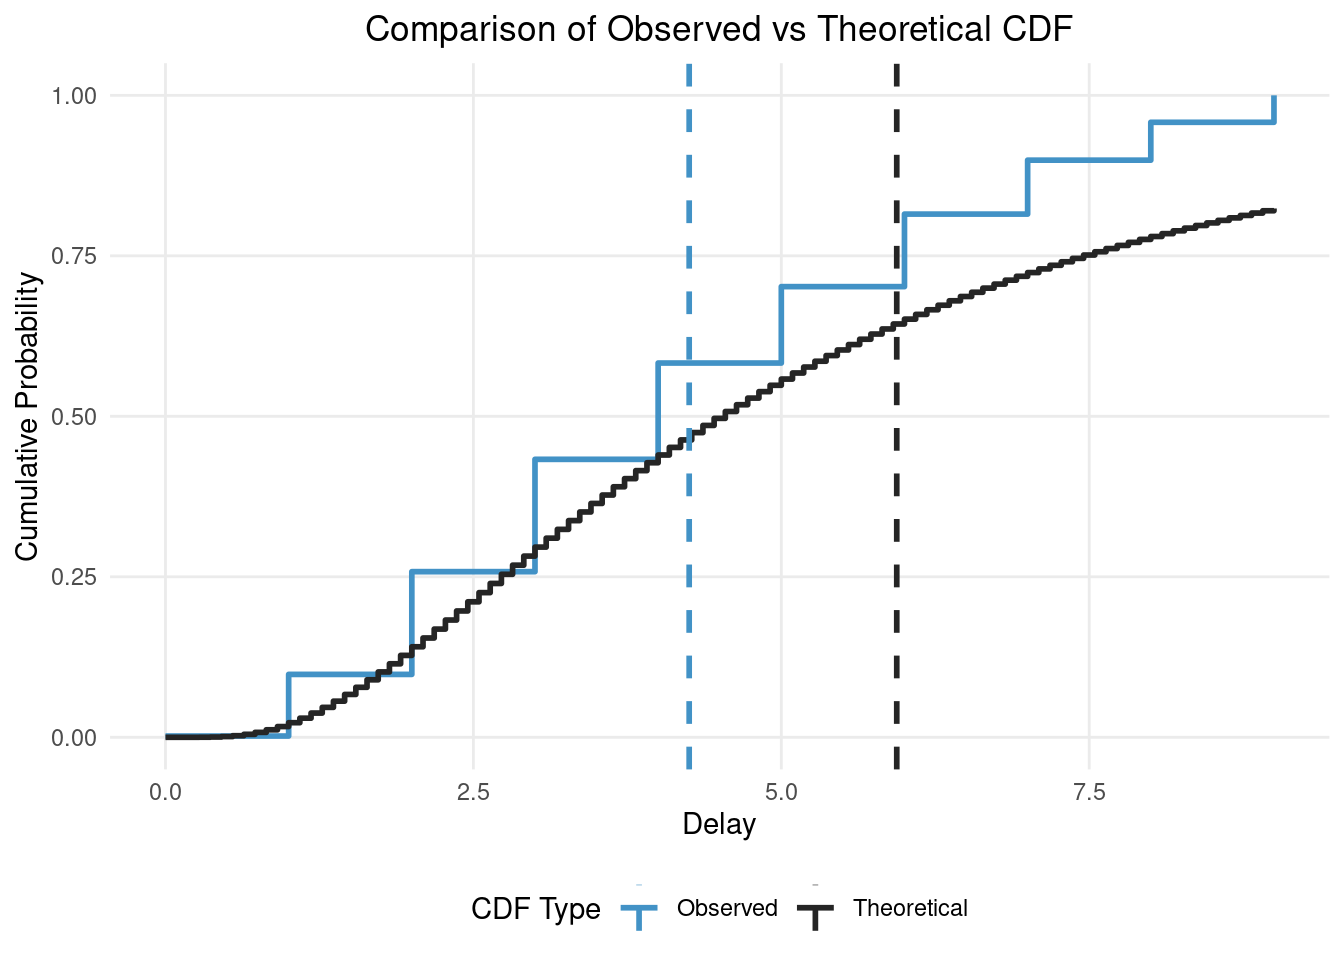
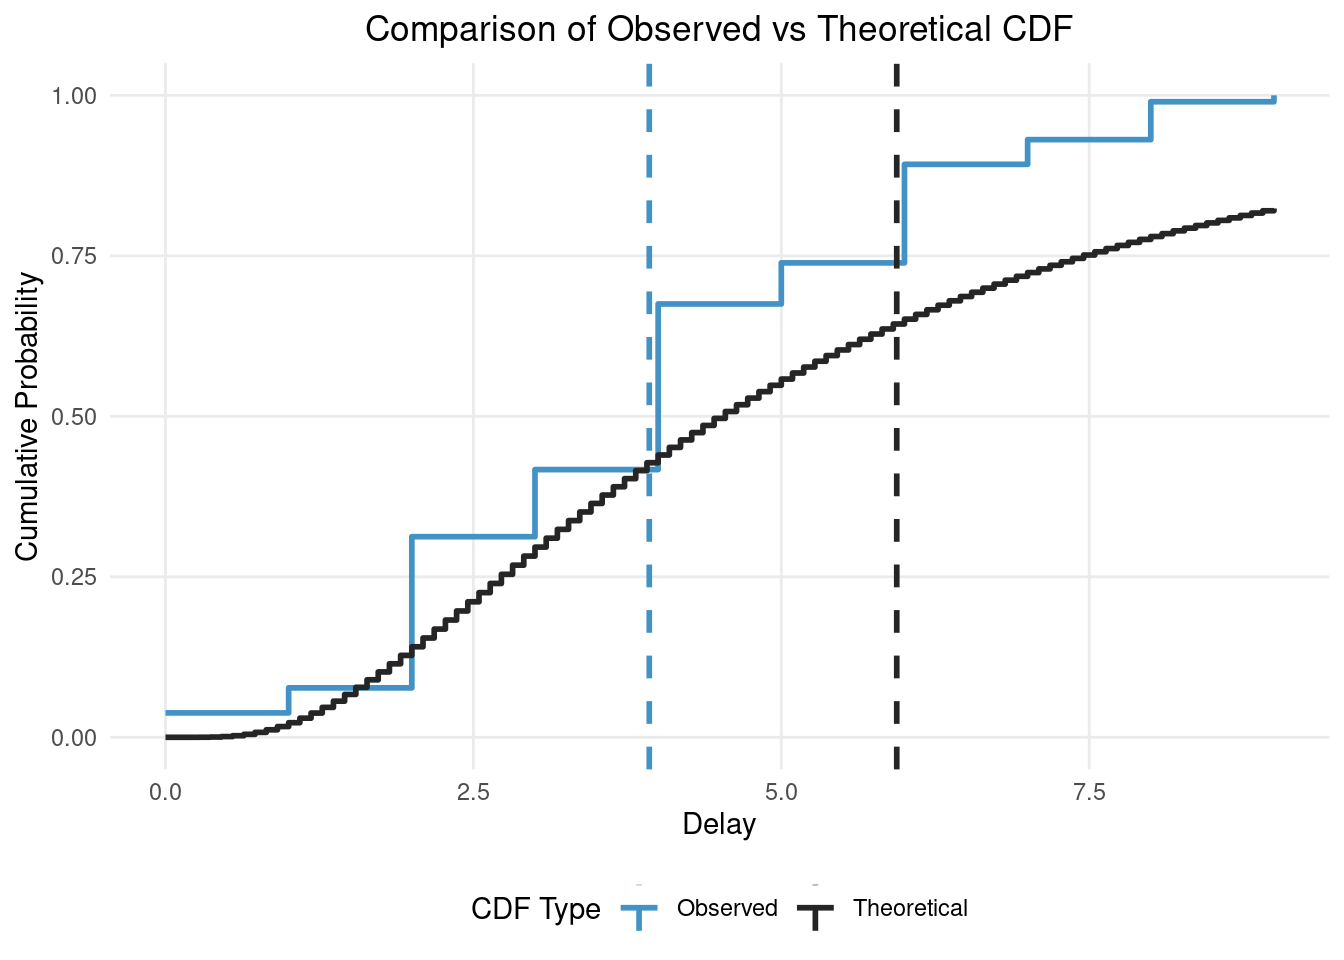
Deploying to gh-pages from @ epinowcast/primarycensoreddist@1c4e6f120c49ee372998851951ee8f03314c4535 🚀

diff --git a/dev/articles/fitting-dists-with-stan.html b/dev/articles/fitting-dists-with-stan.html
@@ -125,14 +125,14 @@
 <code class="sourceCode R"><span><span class="fu"><a href="https://rdrr.io/r/base/Random.html" class="external-link">set.seed</a></span><span class="op">(</span><span class="fl">123</span><span class="op">)</span> <span class="co"># For reproducibility</span></span>
 <span></span>
 <span><span class="co"># Define the true distribution parameters</span></span>
-<span><span class="va">n</span> <span class="op">&lt;-</span> <span class="fl">1000</span></span>
+<span><span class="va">n</span> <span class="op">&lt;-</span> <span class="fl">2000</span></span>
 <span><span class="va">meanlog</span> <span class="op">&lt;-</span> <span class="fl">1.5</span></span>
 <span><span class="va">sdlog</span> <span class="op">&lt;-</span> <span class="fl">0.75</span></span>
 <span></span>
 <span><span class="co"># Generate varying pwindow, swindow, and obs_time lengths</span></span>
-<span><span class="va">pwindows</span> <span class="op">&lt;-</span> <span class="fu"><a href="https://rdrr.io/r/base/sample.html" class="external-link">sample</a></span><span class="op">(</span><span class="fl">1</span>, <span class="va">n</span>, replace <span class="op">=</span> <span class="cn">TRUE</span><span class="op">)</span></span>
-<span><span class="va">swindows</span> <span class="op">&lt;-</span> <span class="fu"><a href="https://rdrr.io/r/base/sample.html" class="external-link">sample</a></span><span class="op">(</span><span class="fl">1</span>, <span class="va">n</span>, replace <span class="op">=</span> <span class="cn">TRUE</span><span class="op">)</span></span>
-<span><span class="va">obs_times</span> <span class="op">&lt;-</span> <span class="fl">10</span></span>
+<span><span class="va">pwindows</span> <span class="op">&lt;-</span> <span class="fu"><a href="https://rdrr.io/r/base/sample.html" class="external-link">sample</a></span><span class="op">(</span><span class="fl">1</span><span class="op">:</span><span class="fl">2</span>, <span class="va">n</span>, replace <span class="op">=</span> <span class="cn">TRUE</span><span class="op">)</span></span>
+<span><span class="va">swindows</span> <span class="op">&lt;-</span> <span class="fu"><a href="https://rdrr.io/r/base/sample.html" class="external-link">sample</a></span><span class="op">(</span><span class="fl">1</span><span class="op">:</span><span class="fl">2</span>, <span class="va">n</span>, replace <span class="op">=</span> <span class="cn">TRUE</span><span class="op">)</span></span>
+<span><span class="va">obs_times</span> <span class="op">&lt;-</span> <span class="fu"><a href="https://rdrr.io/r/base/sample.html" class="external-link">sample</a></span><span class="op">(</span><span class="fl">8</span><span class="op">:</span><span class="fl">10</span>, <span class="va">n</span>, replace <span class="op">=</span> <span class="cn">TRUE</span><span class="op">)</span></span>
 <span></span>
 <span><span class="co"># Function to generate a single sample</span></span>
 <span><span class="va">generate_sample</span> <span class="op">&lt;-</span> <span class="kw">function</span><span class="op">(</span><span class="va">pwindow</span>, <span class="va">swindow</span>, <span class="va">obs_time</span><span class="op">)</span> <span class="op">{</span></span>
@@ -149,37 +149,39 @@
 <span><span class="co"># Create initial data frame</span></span>
 <span><span class="va">delay_data</span> <span class="op">&lt;-</span> <span class="fu"><a href="https://rdrr.io/r/base/data.frame.html" class="external-link">data.frame</a></span><span class="op">(</span></span>
 <span>  pwindow <span class="op">=</span> <span class="va">pwindows</span>,</span>
-<span>  swindow <span class="op">=</span> <span class="va">swindows</span>,</span>
 <span>  obs_time <span class="op">=</span> <span class="va">obs_times</span>,</span>
 <span>  observed_delay <span class="op">=</span> <span class="va">samples</span>,</span>
 <span>  observed_delay_upper <span class="op">=</span> <span class="va">samples</span> <span class="op">+</span> <span class="va">swindows</span></span>
-<span><span class="op">)</span></span>
+<span><span class="op">)</span> <span class="op">|&gt;</span></span>
+<span>  <span class="fu"><a href="https://dplyr.tidyverse.org/reference/mutate.html" class="external-link">mutate</a></span><span class="op">(</span></span>
+<span>    observed_delay_upper <span class="op">=</span> <span class="fu"><a href="https://rdrr.io/r/base/Extremes.html" class="external-link">pmin</a></span><span class="op">(</span><span class="va">obs_time</span>, <span class="va">observed_delay_upper</span><span class="op">)</span></span>
+<span>  <span class="op">)</span></span>
 <span></span>
 <span><span class="fu"><a href="https://rdrr.io/r/utils/head.html" class="external-link">head</a></span><span class="op">(</span><span class="va">delay_data</span><span class="op">)</span></span></code></pre></div>
-<pre><code><span><span class="co">##   pwindow swindow obs_time observed_delay observed_delay_upper</span></span>
-<span><span class="co">## 1       1       1       10              2                    3</span></span>
-<span><span class="co">## 2       1       1       10              1                    2</span></span>
-<span><span class="co">## 3       1       1       10              8                    9</span></span>
-<span><span class="co">## 4       1       1       10              6                    7</span></span>
-<span><span class="co">## 5       1       1       10              5                    6</span></span>
-<span><span class="co">## 6       1       1       10              4                    5</span></span></code></pre>
+<pre><code><span><span class="co">##   pwindow obs_time observed_delay observed_delay_upper</span></span>
+<span><span class="co">## 1       1        9              3                    4</span></span>
+<span><span class="co">## 2       1        9              4                    5</span></span>
+<span><span class="co">## 3       1        8              6                    7</span></span>
+<span><span class="co">## 4       2       10              6                    8</span></span>
+<span><span class="co">## 5       1       10              8                   10</span></span>
+<span><span class="co">## 6       2        8              4                    5</span></span></code></pre>
 <div class="sourceCode" id="cb4"><pre class="downlit sourceCode r">
 <code class="sourceCode R"><span><span class="co"># Aggregate to unique combinations and count occurrences</span></span>
 <span><span class="co"># Aggregate to unique combinations and count occurrences</span></span>
 <span><span class="va">delay_counts</span> <span class="op">&lt;-</span> <span class="va">delay_data</span> <span class="op">|&gt;</span></span>
 <span>  <span class="fu"><a href="https://dplyr.tidyverse.org/reference/summarise.html" class="external-link">summarise</a></span><span class="op">(</span></span>
 <span>    n <span class="op">=</span> <span class="fu"><a href="https://dplyr.tidyverse.org/reference/context.html" class="external-link">n</a></span><span class="op">(</span><span class="op">)</span>,</span>
-<span>    .by <span class="op">=</span> <span class="fu"><a href="https://rdrr.io/r/base/c.html" class="external-link">c</a></span><span class="op">(</span><span class="va">pwindow</span>, <span class="va">swindow</span>, <span class="va">obs_time</span>, <span class="va">observed_delay</span>, <span class="va">observed_delay_upper</span><span class="op">)</span></span>
+<span>    .by <span class="op">=</span> <span class="fu"><a href="https://rdrr.io/r/base/c.html" class="external-link">c</a></span><span class="op">(</span><span class="va">pwindow</span>, <span class="va">obs_time</span>, <span class="va">observed_delay</span>, <span class="va">observed_delay_upper</span><span class="op">)</span></span>
 <span>  <span class="op">)</span></span>
 <span></span>
 <span><span class="fu"><a href="https://rdrr.io/r/utils/head.html" class="external-link">head</a></span><span class="op">(</span><span class="va">delay_counts</span><span class="op">)</span></span></code></pre></div>
-<pre><code><span><span class="co">##   pwindow swindow obs_time observed_delay observed_delay_upper   n</span></span>
-<span><span class="co">## 1       1       1       10              2                    3 160</span></span>
-<span><span class="co">## 2       1       1       10              1                    2  96</span></span>
-<span><span class="co">## 3       1       1       10              8                    9  59</span></span>
-<span><span class="co">## 4       1       1       10              6                    7 113</span></span>
-<span><span class="co">## 5       1       1       10              5                    6 119</span></span>
-<span><span class="co">## 6       1       1       10              4                    5 150</span></span></code></pre>
+<pre><code><span><span class="co">##   pwindow obs_time observed_delay observed_delay_upper  n</span></span>
+<span><span class="co">## 1       1        9              3                    4 37</span></span>
+<span><span class="co">## 2       1        9              4                    5 31</span></span>
+<span><span class="co">## 3       1        8              6                    7 16</span></span>
+<span><span class="co">## 4       2       10              6                    8 26</span></span>
+<span><span class="co">## 5       1       10              8                   10 22</span></span>
+<span><span class="co">## 6       2        8              4                    5 43</span></span></code></pre>
 <div class="sourceCode" id="cb6"><pre class="downlit sourceCode r">
 <code class="sourceCode R"><span><span class="co"># Compare the samples with and without secondary censoring to the true</span></span>
 <span><span class="co"># distribution</span></span>
@@ -274,14 +276,14 @@
 <span><span class="op">)</span></span>
 <span><span class="va">naive_fit</span></span></code></pre></div>
 <pre><code><span><span class="co">## Warning: NAs introduced by coercion</span></span></code></pre>
-<pre><code><span><span class="co">##  variable      mean    median   sd  mad        q5       q95 rhat ess_bulk</span></span>
-<span><span class="co">##     lp__  -28480.45 -28480.10 1.00 0.74 -28482.40 -28479.50 1.00     1999</span></span>
-<span><span class="co">##     mu        -0.10     -0.10 0.05 0.04     -0.18     -0.02 1.00     2691</span></span>
-<span><span class="co">##     sigma      4.61      4.61 0.03 0.03      4.56      4.67 1.00     3820</span></span>
+<pre><code><span><span class="co">##  variable       mean     median   sd  mad         q5        q95 rhat ess_bulk</span></span>
+<span><span class="co">##     lp__  -381721.39 -381721.00 1.04 0.00 -381723.00 -381720.00 1.00     1641</span></span>
+<span><span class="co">##     mu         -0.60      -0.60 0.01 0.01      -0.62      -0.58 1.00     1331</span></span>
+<span><span class="co">##     sigma       5.10       5.10 0.01 0.01       5.09       5.12 1.00     4340</span></span>
 <span><span class="co">##  ess_tail</span></span>
 <span><span class="co">##        NA</span></span>
-<span><span class="co">##      2310</span></span>
-<span><span class="co">##      2869</span></span></code></pre>
+<span><span class="co">##      1521</span></span>
+<span><span class="co">##      2759</span></span></code></pre>
 <p>We see that the model has converged and the diagnostics look good. However, just from the model posterior summary we see that we might not be very happy with the fit. <code>mu</code> is smaller than the target 1.5 and <code>sigma</code> is larger than the target 0.75.</p>
 </div>
 <div class="section level2" number="4">
@@ -351,9 +353,9 @@
 <span><span class="op">)</span></span>
 <span><span class="va">primarycensoreddist_fit</span></span></code></pre></div>
 <pre><code><span><span class="co">##  variable     mean   median   sd  mad       q5      q95 rhat ess_bulk ess_tail</span></span>
-<span><span class="co">##     lp__  -2134.45 -2134.16 0.97 0.71 -2136.44 -2133.50 1.00     1741     2206</span></span>
-<span><span class="co">##     mu        1.53     1.53 0.05 0.05     1.46     1.61 1.00     1386     1540</span></span>
-<span><span class="co">##     sigma     0.77     0.77 0.04 0.04     0.71     0.83 1.00     1373     1786</span></span></code></pre>
+<span><span class="co">##     lp__  -3422.72 -3422.43 1.00 0.71 -3424.51 -3421.79 1.00     1379     1857</span></span>
+<span><span class="co">##     mu        1.55     1.54 0.04 0.04     1.47     1.62 1.00     1133     1313</span></span>
+<span><span class="co">##     sigma     0.78     0.78 0.03 0.03     0.73     0.83 1.00     1107     1212</span></span></code></pre>
 <p>We see that the model has converged and the diagnostics look good. We also see that the posterior means are very near the true parameters and the 90% credible intervals include the true parameters.</p>
 </div>
   </main><aside class="col-md-3"><nav id="toc" aria-label="Table of contents"><h2>On this page</h2>

diff --git a/dev/articles/using-stan-tools.html b/dev/articles/using-stan-tools.html
@@ -140,7 +140,7 @@
 <span><span class="co">##  [5] "expgrowth_rng"                        </span></span>
 <span><span class="co">##  [6] "dist_lcdf"                            </span></span>
 <span><span class="co">##  [7] "primary_dist_lpdf"                    </span></span>
-<span><span class="co">##  [8] "primary_censored_integrand"           </span></span>
+<span><span class="co">##  [8] "primary_censored_ode"                 </span></span>
 <span><span class="co">##  [9] "primary_censored_dist_cdf"            </span></span>
 <span><span class="co">## [10] "primary_censored_dist_lcdf"           </span></span>
 <span><span class="co">## [11] "primary_censored_dist_lpmf"           </span></span>
@@ -174,7 +174,7 @@
 <span>  output_file <span class="op">=</span> <span class="va">expgrowth_rng_file</span>,</span>
 <span>  wrap_in_block <span class="op">=</span> <span class="cn">TRUE</span></span>
 <span><span class="op">)</span></span></code></pre></div>
-<pre><code><span><span class="co">## Stan functions written to: /tmp/RtmpboC1vT/expgrowth_rng.stan</span></span></code></pre>
+<pre><code><span><span class="co">## Stan functions written to: /tmp/RtmpSKJX5f/expgrowth_rng.stan</span></span></code></pre>
 <p>This can now be compiled and used in the same way as any other <code>cmdstanr</code> model.</p>
 <div class="sourceCode" id="cb8"><pre class="downlit sourceCode r">
 <code class="sourceCode R"><span><span class="va">model</span> <span class="op">&lt;-</span> <span class="fu"><a href="https://mc-stan.org/cmdstanr/reference/cmdstan_model.html" class="external-link">cmdstan_model</a></span><span class="op">(</span><span class="va">expgrowth_rng_file</span><span class="op">)</span></span>

diff --git a/dev/news/index.html b/dev/news/index.html
@@ -46,7 +46,8 @@
 <div class="section level3">
 <h3 id="package-0-3-0-1000">Package<a class="anchor" aria-label="anchor" href="#package-0-3-0-1000"></a></h3>
 <ul><li>Added a new function <code><a href="../reference/fitdistdoublecens.html">fitdistdoublecens()</a></code> to allow for fitting of double censored and truncated data using the <code>fitdistrplus</code> package.</li>
-<li>Added low level tests for the Stan <code>primary_censored_integrand</code> function.</li>
+<li>Added low level tests for the Stan <code>primary_censored_ode</code> function.</li>
+<li>Rephrased the stan code to use a ODE solver rather than a numerical integration method. This allows for much faster and more stable computation of the likelihood</li>
 </ul></div>
 </div>
     <div class="section level2">
